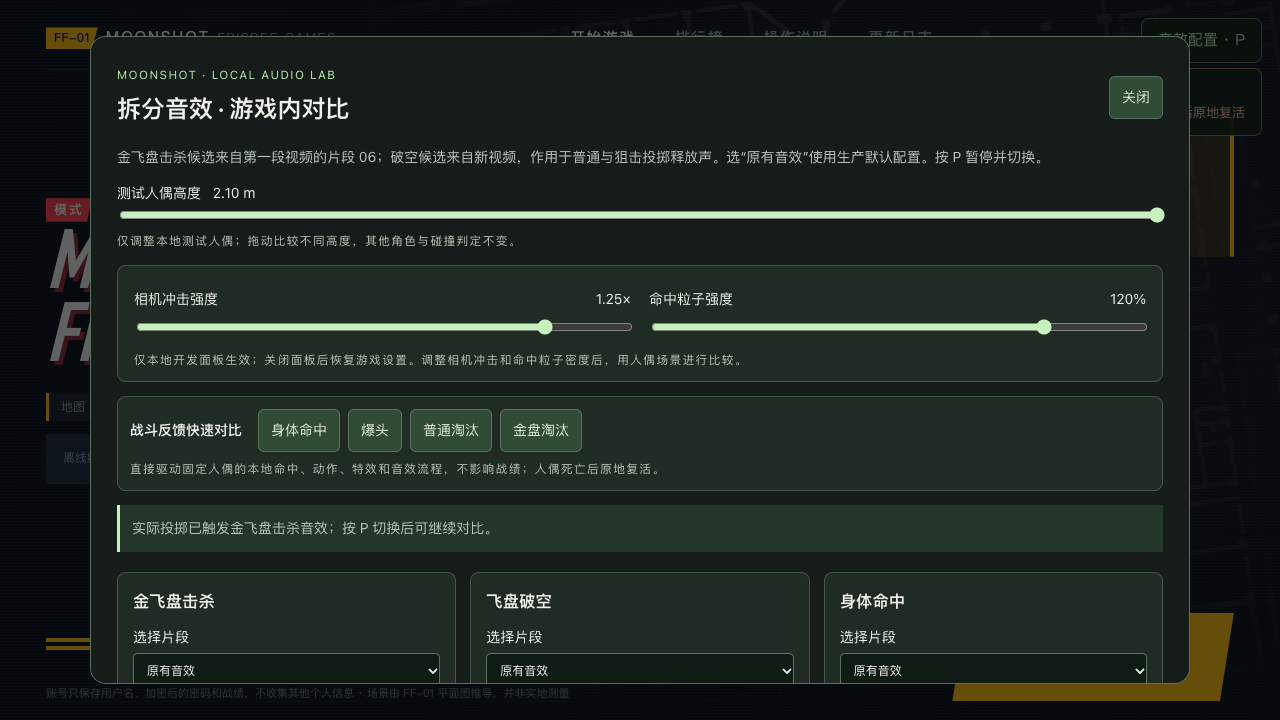
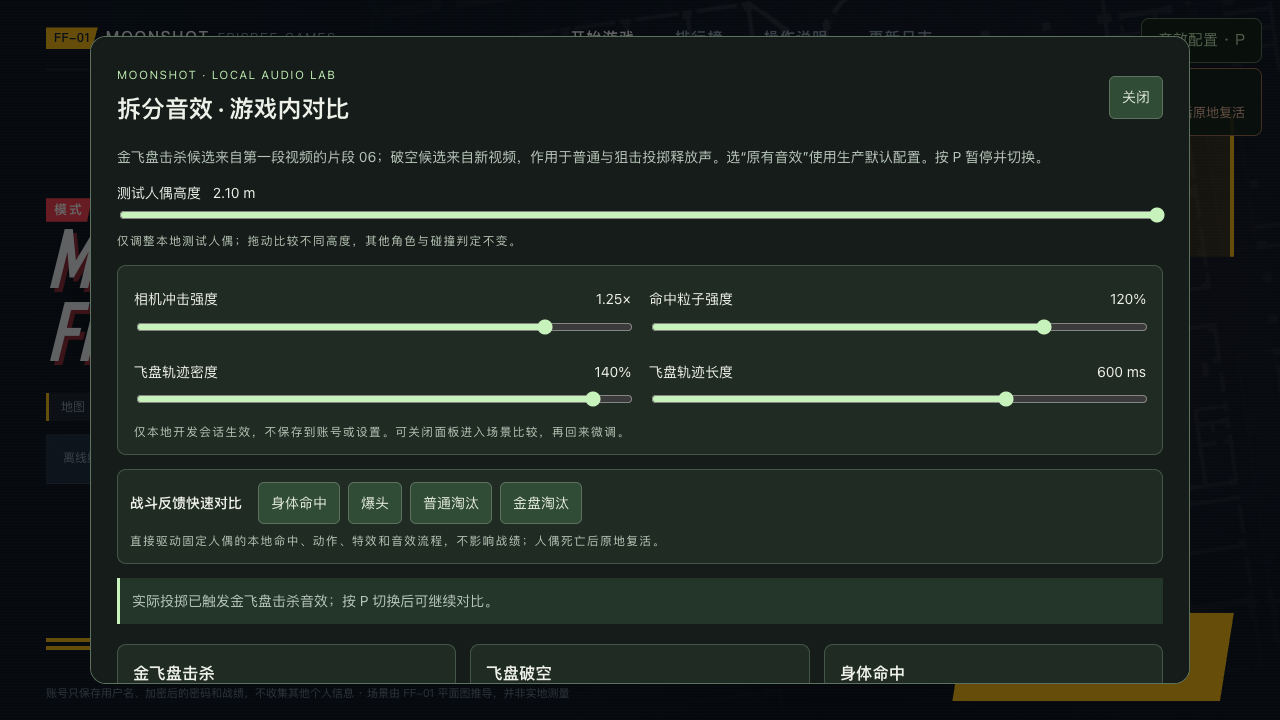
feat: tune frisbee trails in combat feel lab

Changed region(s): [[0.0938, 0.4889, 0.9062, 0.7639], [0.0938, 0.7944, 0.4375, 0.9472], [0.625, 0.7944, 0.7188, 0.9472]]

diff --git a/src/ui/audioLab.ts b/src/ui/audioLab.ts
@@ -13,8 +13,12 @@ type Options = {
     setDummyScale: (scale: number) => void;
     setCameraKick: (scale: number | null) => void;
     setEffectIntensity: (intensity: number | null) => void;
+    setTrailDensity: (density: number | null) => void;
+    setTrailLength: (seconds: number | null) => void;
     getCameraKick: () => number;
     getEffectIntensity: () => number;
+    getTrailDensity: () => number;
+    getTrailLength: () => number;
     simulateDummyHit: (scenario: 'body' | 'head' | 'elimination' | 'golden') => void;
 };
 
@@ -27,8 +31,12 @@ export const mountAudioLab = async ({
     setDummyScale,
     setCameraKick,
     setEffectIntensity,
+    setTrailDensity,
+    setTrailLength,
     getCameraKick,
     getEffectIntensity,
+    getTrailDensity,
+    getTrailLength,
     simulateDummyHit
 }: Options) => {
     const host = document.createElement('div');
@@ -39,16 +47,18 @@ export const mountAudioLab = async ({
         <p>金飞盘击杀候选来自第一段视频的片段 06；破空候选来自新视频，作用于普通与狙击投掷释放声。选“原有音效”使用生产默认配置。按 P 暂停并切换。</p>
         <label class="audio-lab-scale">测试人偶高度 <output data-dummy-height>2.10 m</output><input data-dummy-scale type="range" min="0.60" max="2.10" step="0.05" value="2.10"><small>仅调整本地测试人偶；拖动比较不同高度，其他角色与碰撞判定不变。</small></label>
         <div class="audio-lab-tuning" aria-label="战斗反馈参数">
-          <label>相机冲击强度 <output data-camera-kick-value></output><input data-camera-kick type="range" min="0" max="1.5" step="0.05"></label>
+          <label>相机冲击强度 <output data-camera-kick-value></output><input data-camera-kick type="range" min="0" max="1.5" step="0.01"></label>
           <label>命中粒子强度 <output data-effect-intensity-value></output><input data-effect-intensity type="range" min="0" max="1.5" step="0.05"></label>
-          <small>仅本地开发面板生效；关闭面板后恢复游戏设置。调整相机冲击和命中粒子密度后，用人偶场景进行比较。</small>
+          <label>飞盘轨迹密度 <output data-trail-density-value></output><input data-trail-density type="range" min="0" max="1.5" step="0.05"></label>
+          <label>飞盘轨迹长度 <output data-trail-length-value></output><input data-trail-length type="range" min="0.08" max="0.8" step="0.04"></label>
+          <small>仅本地开发会话生效，不保存到账号或设置。可关闭面板进入场景比较，再回来微调。</small>
         </div>
         <div class="audio-lab-scenarios" aria-label="战斗反馈场景"><strong>战斗反馈快速对比</strong><button data-scenario="body" type="button">身体命中</button><button data-scenario="head" type="button">爆头</button><button data-scenario="elimination" type="button">普通淘汰</button><button data-scenario="golden" type="button">金盘淘汰</button><small>直接驱动固定人偶的本地命中、动作、特效和音效流程，不影响战绩；人偶死亡后原地复活。</small></div>
         <p class="audio-lab-status" role="status">正在读取本地拆分片段…</p>
         <div class="audio-lab-rows"></div>
         <label class="audio-lab-loop"><input data-loop type="checkbox">循环当前试听</label>
         <label class="audio-lab-loop"><input data-golden type="checkbox">金飞盘试音：人偶淘汰时使用“金飞盘击杀”候选</label>
-        <footer><button data-action="stop" type="button">停止试听</button><button data-action="reset" type="button">全部恢复原声</button><button data-action="range" type="button">去试音靶场并进入游戏</button><button data-action="resume" type="button">继续游戏</button></footer>
+        <footer><button data-action="stop" type="button">停止试听</button><button data-action="reset" type="button">全部恢复原声</button><button data-action="reset-tuning" type="button">恢复调节默认</button><button data-action="range" type="button">去试音靶场并进入游戏</button><button data-action="resume" type="button">继续游戏</button></footer>
         <p class="audio-lab-note">固定人偶：身体两次命中淘汰，爆头一次淘汰；从背后靠近后按 V 或点处决按钮，双方播放处决动作，完成后 2.5 秒原地复活，不记录战绩。新候选保留视频中的背景混音，未做声源分离，可调起止点；仅供本地评估。生产默认的 10／12／16 不受候选库精简影响。</p>
       </dialog>
       <div class="audio-lab-dummy" aria-label="测试人偶状态"><strong>固定测试人偶</strong><span data-dummy-state>生命 2/2 · 死亡后原地复活</span></div>`;
@@ -63,10 +73,24 @@ export const mountAudioLab = async ({
     const cameraKickValue = host.querySelector<HTMLOutputElement>('[data-camera-kick-value]')!;
     const effectIntensityRange = host.querySelector<HTMLInputElement>('[data-effect-intensity]')!;
     const effectIntensityValue = host.querySelector<HTMLOutputElement>('[data-effect-intensity-value]')!;
+    const trailDensityRange = host.querySelector<HTMLInputElement>('[data-trail-density]')!;
+    const trailDensityValue = host.querySelector<HTMLOutputElement>('[data-trail-density-value]')!;
+    const trailLengthRange = host.querySelector<HTMLInputElement>('[data-trail-length]')!;
+    const trailLengthValue = host.querySelector<HTMLOutputElement>('[data-trail-length-value]')!;
     cameraKickRange.value = String(getCameraKick());
     cameraKickValue.value = `${Number(cameraKickRange.value).toFixed(2)}×`;
     effectIntensityRange.value = String(getEffectIntensity());
     effectIntensityValue.value = `${Math.round(Number(effectIntensityRange.value) * 100)}%`;
+    trailDensityRange.value = String(getTrailDensity());
+    trailDensityValue.value = `${Math.round(Number(trailDensityRange.value) * 100)}%`;
+    trailLengthRange.value = String(getTrailLength());
+    trailLengthValue.value = `${Math.round(Number(trailLengthRange.value) * 1000)} ms`;
+    const originalTuning = {
+        cameraKick: Number(cameraKickRange.value),
+        effectIntensity: Number(effectIntensityRange.value),
+        trailDensity: Number(trailDensityRange.value),
+        trailLength: Number(trailLengthRange.value)
+    };
     cameraKickRange.addEventListener('input', () => {
         const value = Number(cameraKickRange.value);
         cameraKickValue.value = `${value.toFixed(2)}×`;
@@ -76,6 +100,16 @@ export const mountAudioLab = async ({
         const value = Number(effectIntensityRange.value);
         effectIntensityValue.value = `${Math.round(value * 100)}%`;
         setEffectIntensity(value);
+    });
+    trailDensityRange.addEventListener('input', () => {
+        const value = Number(trailDensityRange.value);
+        trailDensityValue.value = `${Math.round(value * 100)}%`;
+        setTrailDensity(value);
+    });
+    trailLengthRange.addEventListener('input', () => {
+        const value = Number(trailLengthRange.value);
+        trailLengthValue.value = `${Math.round(value * 1000)} ms`;
+        setTrailLength(value);
     });
     dummyScale.addEventListener('input', () => {
         const height = Number(dummyScale.value);
@@ -114,10 +148,16 @@ export const mountAudioLab = async ({
         },
         true
     );
-    dialog.addEventListener('close', () => {
-        stop();
-        setCameraKick(null);
-        setEffectIntensity(null);
+    dialog.addEventListener('close', stop);
+    host.querySelector('[data-action="reset-tuning"]')!.addEventListener('click', () => {
+        cameraKickRange.value = String(originalTuning.cameraKick);
+        cameraKickRange.dispatchEvent(new Event('input', { bubbles: true }));
+        effectIntensityRange.value = String(originalTuning.effectIntensity);
+        effectIntensityRange.dispatchEvent(new Event('input', { bubbles: true }));
+        trailDensityRange.value = String(originalTuning.trailDensity);
+        trailDensityRange.dispatchEvent(new Event('input', { bubbles: true }));
+        trailLengthRange.value = String(originalTuning.trailLength);
+        trailLengthRange.dispatchEvent(new Event('input', { bubbles: true }));
     });
     const resume = () => {
         const screen = document.querySelector<HTMLElement>('#app-ui')?.dataset.screen;

diff --git a/tests/browser/audio-lab.spec.ts b/tests/browser/audio-lab.spec.ts
@@ -36,16 +36,50 @@ test('combat feel lab presets drive the fixed dummy hit, headshot, respawn and g
         element.value = '1.2';
         element.dispatchEvent(new Event('input', { bubbles: true }));
     });
+    await page.locator('[data-trail-density]').evaluate((element: HTMLInputElement) => {
+        element.value = '1.4';
+        element.dispatchEvent(new Event('input', { bubbles: true }));
+    });
+    await page.locator('[data-trail-length]').evaluate((element: HTMLInputElement) => {
+        element.value = '0.6';
+        element.dispatchEvent(new Event('input', { bubbles: true }));
+    });
     await expect.poll(() => page.evaluate(() => window.__MOONSHOT__!.match.state().cameraMotionScale)).toBe(1.25);
     await expect.poll(() => page.evaluate(() => window.__MOONSHOT__!.match.state().effectIntensity)).toBe(1.2);
+    await expect.poll(() => page.evaluate(() => window.__MOONSHOT__!.match.state().trailDensity)).toBe(1.4);
+    await expect.poll(() => page.evaluate(() => window.__MOONSHOT__!.match.state().trailLength)).toBe(0.6);
     await page.screenshot({ path: 'test-results/combat-feel-lab-tuning.png' });
     await page.locator('.audio-lab [data-action="close"]').click();
+    await expect.poll(() => page.evaluate(() => window.__MOONSHOT__!.match.state().cameraMotionScale)).toBe(1.25);
+    await expect.poll(() => page.evaluate(() => window.__MOONSHOT__!.match.state().trailDensity)).toBe(1.4);
+    await page.keyboard.press('p');
+    await expect(page.locator('.audio-lab')).toBeVisible();
+    await page.locator('.audio-lab [data-action="range"]').click();
+    await expect.poll(() => page.evaluate(() => document.pointerLockElement?.id)).toBe('application-canvas');
+    await expect.poll(() => page.evaluate(() => window.__MOONSHOT__!.match.state().practiceDummy?.hp)).toBe(2);
+    await page.evaluate(() => window.__MOONSHOT__!.teleport(-8.7, 0.92, 48));
+    const tracerSamples = await page.evaluate(() => window.__MOONSHOT__!.match.state().tracerSamples);
+    // A low practice speed stays above the trail speed threshold but remains in flight for several frames.
+    expect(await page.evaluate(() => window.__MOONSHOT__!.match.throwAt(-8.7, 0.9, 42.3, 6))).toBe(true);
+    await expect
+        .poll(() => page.evaluate(() => window.__MOONSHOT__!.match.state().tracerSamples))
+        .toBeGreaterThan(tracerSamples + 3);
+    await page.screenshot({ path: 'test-results/combat-feel-lab-trail-live.png' });
+    await page.keyboard.press('p');
+    await expect(page.locator('.audio-lab')).toBeVisible();
+    await page.locator('.audio-lab [data-action="reset-tuning"]').click();
     await expect
         .poll(() => page.evaluate(() => window.__MOONSHOT__!.match.state().cameraMotionScale))
         .toBe(originalTuning.cameraMotionScale);
     await expect
         .poll(() => page.evaluate(() => window.__MOONSHOT__!.match.state().effectIntensity))
         .toBe(originalTuning.effectIntensity);
+    await expect
+        .poll(() => page.evaluate(() => window.__MOONSHOT__!.match.state().trailDensity))
+        .toBe(originalTuning.trailDensity);
+    await expect
+        .poll(() => page.evaluate(() => window.__MOONSHOT__!.match.state().trailLength))
+        .toBe(originalTuning.trailLength);
 });
 
 test('offline target stays visible after entry, uses selected defaults and respawns in place', async ({ page }) => {

diff --git a/src/gameplay/discs.ts b/src/gameplay/discs.ts
@@ -59,6 +59,7 @@ export const hueColour = (hue: number): [number, number, number] => {
 
 export const createDiscs = (app: AppBase, worldGravity: number) => {
     const discs: Disc[] = [];
+    let trailDensity = 1;
     const shape = merge([
         place(cylinder(DISC.radius - 0.01, 0.012, 32), { y: 0.004 }),
         place(cylinder(DISC.radius - 0.035, 0.004, 24), { y: 0.0115 }),
@@ -103,6 +104,13 @@ export const createDiscs = (app: AppBase, worldGravity: number) => {
     return {
         get count() {
             return discs.length;
+        },
+        /** Temporary developer-only override for trail sample density; null restores the 60 ms default. */
+        setLabTrailDensity(value: number | null) {
+            trailDensity = value === null ? 1 : Math.max(0, Math.min(1.5, value));
+        },
+        get trailDensity() {
+            return trailDensity;
         },
         /** Launches a disc; `normal` is the disc-plane normal (see launchNormal). */
         launch(options: {
@@ -226,10 +234,11 @@ export const createDiscs = (app: AppBase, worldGravity: number) => {
                     body.applyForce(force);
                 }
                 // A sparse, speed-gated trail makes ordinary flights readable while bounding pooled samples.
-                if (disc.live && speed > 5) {
+                if (disc.live && speed > 5 && trailDensity > 0) {
                     disc.trailElapsed += deltaTime;
-                    if (disc.trailElapsed >= 0.06) {
-                        disc.trailElapsed %= 0.06;
+                    const trailInterval = 0.06 / trailDensity;
+                    if (disc.trailElapsed >= trailInterval) {
+                        disc.trailElapsed %= trailInterval;
                         onTracer?.(position, disc.gold ? -1 : disc.hue, speed);
                     }
                 }

diff --git a/src/gameplay/effects.ts b/src/gameplay/effects.ts
@@ -43,6 +43,9 @@ export const createEffects = (app: AppBase) => {
     let density = 0.65;
     let qualityDensity = 0.65;
     let labIntensity: number | null = null;
+    let trailLife = 0.24;
+    let labTrailLife: number | null = null;
+    let tracerSamples = 0;
     let reducedFlashes = false;
     let tracerTick = 0;
     const make = (ring: boolean) => {
@@ -186,10 +189,11 @@ export const createEffects = (app: AppBase) => {
         tracer(at: V3, hue: number, speed = 16) {
             tracerTick++;
             if (density < 0.5 && tracerTick % 2 !== 0) return;
+            tracerSamples++;
             // hue < 0: the golden disc's trail.
             const [r, g, b] = hue < 0 ? [1, 0.75, 0.2] : hueColour(hue);
             const size = Math.max(0.045, Math.min(0.1, 0.045 + speed * 0.002));
-            emit(at, [0.6 + r * 0.4, 0.6 + g * 0.4, 0.6 + b * 0.4], [0, 0, 0], size, 0.24);
+            emit(at, [0.6 + r * 0.4, 0.6 + g * 0.4, 0.6 + b * 0.4], [0, 0, 0], size, trailLife);
         },
         /** A sniper headshot: a tall gold flash and a wide ring on top of the elimination burst. */
         snipe(at: V3) {
@@ -210,6 +214,13 @@ export const createEffects = (app: AppBase) => {
             density = labIntensity ?? qualityDensity;
         },
         intensity: () => density,
+        /** Temporary developer-only trail lifetime override; null restores the 240 ms default. */
+        setLabTrailLength(value: number | null) {
+            labTrailLife = value === null ? null : Math.max(0.08, Math.min(0.8, value));
+            trailLife = labTrailLife ?? 0.24;
+        },
+        trailLength: () => trailLife,
+        tracerSamples: () => tracerSamples,
         setReducedFlashes(value: boolean) {
             reducedFlashes = value;
         },

diff --git a/src/gameplay/match.ts b/src/gameplay/match.ts
@@ -153,8 +153,12 @@ export const createMatch = ({ app, player, camera, canvas, ui, url, auth, arenaC
                 },
                 setCameraKick: (scale) => cameraImpulses.setLabScale(scale),
                 setEffectIntensity: (intensity) => effects.setLabIntensity(intensity),
+                setTrailDensity: (density) => discs.setLabTrailDensity(density),
+                setTrailLength: (seconds) => effects.setLabTrailLength(seconds),
                 getCameraKick: () => cameraImpulses.scale,
                 getEffectIntensity: () => effects.intensity(),
+                getTrailDensity: () => discs.trailDensity,
+                getTrailLength: () => effects.trailLength(),
                 simulateDummyHit: (scenario) => simulateDummyHit(scenario),
                 position: () => {
                     const p = camera.getPosition();
@@ -1784,6 +1788,9 @@ export const createMatch = ({ app, player, camera, canvas, ui, url, auth, arenaC
                 activeAudioVoices: sound.voiceCount(),
                 cameraMotionScale: cameraImpulses.scale,
                 effectIntensity: effects.intensity(),
+                trailDensity: discs.trailDensity,
+                trailLength: effects.trailLength(),
+                tracerSamples: effects.tracerSamples(),
                 practiceDummy: audioLab ? { hp: labHp, position: [...labTargetPose.p], respawnAt: labRespawnAt } : null,
                 practiceExecution: labExecution ? { id: labExecution.id, endsAt: labExecution.endsAt } : null,
                 inspecting: inspectSince !== null,

diff --git a/docs/COMBAT_FEEL_2_0.md b/docs/COMBAT_FEEL_2_0.md
@@ -63,8 +63,8 @@ Baseline HEAD at task start: `3a191d68cb4b2e6bebd6aeed77fa5fc85b7f9a3c` (`origin
 | Full development browser suite after fixes | Audio lab, dummy execution, every authored doorway, campus movement/interaction, route, multiplayer combat/execution and power-switch scenarios | PASS, 16/16 in 2.5 min |
 | Production browser smoke at HEAD `1a8f92a` | Production preview loads FF-01 and physics, then enters through pointer lock | PASS, 1/1 |
 | Production browser smoke after opt-in performance instrumentation | Current Vite production build, FF-01/physics fetch and pointer-lock entry | PASS, 1/1 |
-| Combat Feel Lab tuning and production boundary | Development browser changes both local tuning values, closes and restores them; production build excludes lab strings/styles and production preview entry works | PASS, targeted browser 1/1, typecheck, lint, build and production smoke 1/1 |
-| Unit suite after two-client performance sample | Accounts/rooms, source and derived world integrity, avatar rig/grip/throw clips, combat feedback, camera impulse, and server combat rules | PASS, 86/86; 43.8 s |
+| Combat Feel Lab tuning and production boundary | Development browser changes camera, particle, trail-density and trail-lifetime values; values remain active after closing the modal and the explicit reset restores the prior game settings. Production build excludes lab strings/styles and production preview entry works | PASS, targeted browser 1/1, typecheck, lint, build and production smoke 1/1 |
+| Full unit suite after Combat Feel Lab tuning | Accounts/rooms, source and derived world integrity, avatar rig/grip/throw clips, combat feedback, camera impulse, and server combat rules | PASS, 87/87; 34.6 s |
 | Rendered combat performance samples | Opt-in idle, body-hit and headshot-elimination samples on Apple M1 / HeadlessChrome 155 at 1280×720: 16.7 ms P95 frame interval throughout; headshot reached 136 P95 / 141 max draw calls. A two-client room sample with one rendered viewer, one authenticated non-rendering peer, and one server-confirmed body hit measured 16.8 ms P95 and 199 P95 / 200 max draw calls | PARTIAL; single rendered client only, no 2–32 rendered-player load |
 | Damage vignette and reduced-flash checks | Multiplayer body hit captured from the victim client; reduced-flash test checks both cues have a 280 ms animation and end at zero; movement/sprint/pause/recovery route rerun | PASS, 3 targeted browser tests |
 | Typecheck/lint/build/production smoke after damage-feedback adjustment | Client and Worker type checks, ESLint, production bundle and production entry smoke | PASS; 1,886.88 kB raw / 484.24 kB gzip, existing chunk-size warning |
@@ -92,8 +92,9 @@ The Ammo.js build logs a warning that scaled BVH triangle mesh shapes are unavai
 | HUD hierarchy and duplicate suppression | IN PROGRESS | Hit/kill/golden/personal-damage/round-result priority windows and server-event dedupe are integrated. More combat and simultaneous-event browser coverage remains. |
 | Round result distinction | PARTIAL | Server sends protocol-v10 outcome `golden-disc`, `last-survivor`, or `draw`; result card has distinct copy, outcome colors, and audio cue. Unit and room tests pass, and the development browser rendered and checked all three outcomes plus a loss state. Actual round-event timing and audio remain part of live play review. |
 | Blackout/final-showdown/victory presentation | PARTIAL | Blackout ambience, pooled lights, fixture panels and sun fade over 0.65 s; arena floodlights fade over 420 ms. Final relocation now runs behind a short non-interactive curtain with stale-round/alive-state checks before teleporting. The curtain sequence and blackout route are browser-tested; the live last-minute trigger and round-result presentation still need visual review. Sky color still changes immediately. |
-| Combat Feel Lab | PARTIAL | Development-only P panel has repeatable body-hit, headshot, normal-elimination and golden-elimination presets, plus local camera-kick and hit-particle-density sliders. Overrides reset to the chosen game settings when the panel closes; the hit scenarios use the same local dummy response path. The broader latency, trail, HUD-duration, blackout, final-showdown, victory and two-player execution preset set remains pending. |
-| Combat Feel Lab tuning controls | PASS for development preview and reset | `tests/browser/audio-lab.spec.ts` verifies camera scale and particle density change to selected values, then restore their previous values when the panel closes. Production output was searched for lab UI strings and tuning styles; none were present. Visual capture: [combat-feel-lab-tuning.png](evidence/combat-feel-2.0/combat-feel-lab-tuning.png). |
+| Combat Feel Lab | PARTIAL | Development-only P panel has repeatable body-hit, headshot, normal-elimination and golden-elimination presets, plus camera-kick, hit-particle density, flying-disc trail density and trail lifetime controls. Trail density scales the current 60 ms sample interval from 0–1.5×; trail lifetime adjusts the existing tracer motes from 80–800 ms. Local overrides persist while the development page is open, can be compared in play, and reset explicitly to the user's settings; they are not saved. Latency, HUD-duration, blackout, final-showdown, victory and two-player execution presets remain pending. |
+| Combat Feel Lab tuning controls | PASS for development preview and reset | `tests/browser/audio-lab.spec.ts` verifies all four runtime values change, remain active after closing the modal, and restore their previous values with the reset control. A real slow practice throw emitted at least four tracer samples with the selected density and lifetime. Production output was searched for lab UI strings and tuning styles; none were present. Visual capture: [combat-feel-lab-tuning.png](evidence/combat-feel-2.0/combat-feel-lab-tuning.png). |
+| Real practice-disc tracer emission | PASS for emitter path; visual quality NOT RUN | Browser test launches a disc through the normal practice throw path and confirms tracer samples increase while the tuned values are active. The capture includes a foreground guard that obscures most of the flight, so it does not establish visual trail quality: [combat-feel-lab-trail-live.png](evidence/combat-feel-2.0/combat-feel-lab-trail-live.png). |
 | Performance / 2–32 player profiling | PARTIAL | Reproducible opt-in samples cover solo idle, fixed-dummy body hit and headshot elimination, plus a shared-room case with one authenticated non-rendering peer and one confirmed body hit. On Apple M1 / HeadlessChrome 155 at 1280×720, solo cases recorded 16.7 ms P95 frame interval; headshot reached 136 P95 / 141 maximum draw calls. The shared-room case recorded 16.8 ms P95 / 200 maximum draw calls. Only one client rendered; 2–32 rendered players, movement, memory growth, audio polyphony and release-browser profiling remain NOT RUN. |
 | Subjective human playtest | NOT RUN | No human acceptance claim. |
 | Production deploy | NOT RUN | No deployment was authorized or performed. |
@@ -124,7 +125,8 @@ Captured in an independent Chromium window with real rendering enabled at 1440×
 - Fixed-dummy headshot-elimination performance capture: [performance-headshot.png](evidence/combat-feel-2.0/performance-headshot.png)
 - Shared-room confirmed body-hit performance capture: [performance-two-client-hit.png](evidence/combat-feel-2.0/performance-two-client-hit.png)
 - Combat Feel Lab tuning controls: [combat-feel-lab-tuning.png](evidence/combat-feel-2.0/combat-feel-lab-tuning.png)
+- Live practice-disc trail emission (foreground guard occludes the trail): [combat-feel-lab-trail-live.png](evidence/combat-feel-2.0/combat-feel-lab-trail-live.png)
 
 ## Outstanding acceptance
 
-The overall mission remains incomplete. A full visual review of frisbee release timing and hand/disc alignment, the full visual combat route, the live final-minute relocation, audio timing during real round outcomes, the remaining Combat Feel Lab scenarios, audio/FX performance measurements, and subjective playtest remain open. Never infer audio quality, animation smoothness or frame rate from build/test success.
+The overall mission remains incomplete. A full visual review of frisbee release timing and hand/disc alignment and trail tuning, the full visual combat route, the live final-minute relocation, audio timing during real round outcomes, the remaining Combat Feel Lab scenarios, audio/FX performance measurements, and subjective playtest remain open. Never infer audio quality, animation smoothness or frame rate from build/test success.
